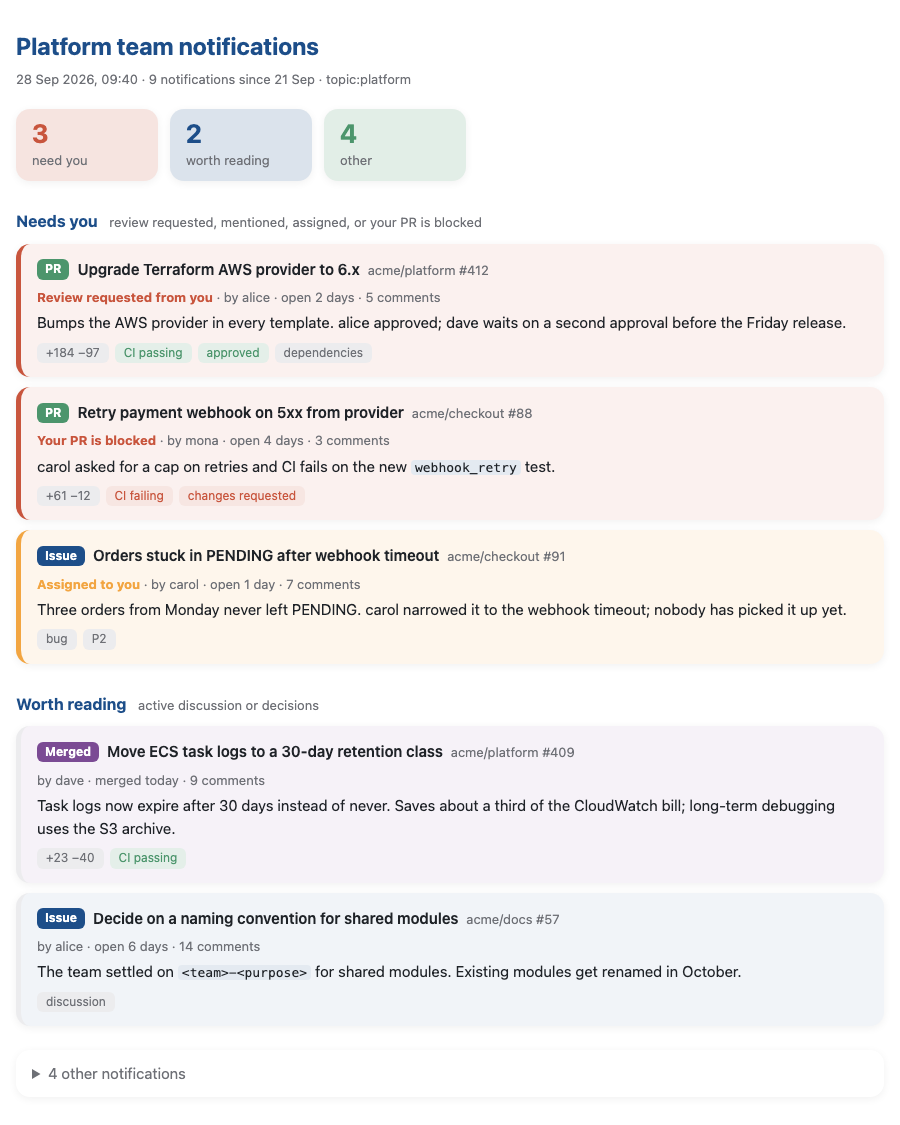
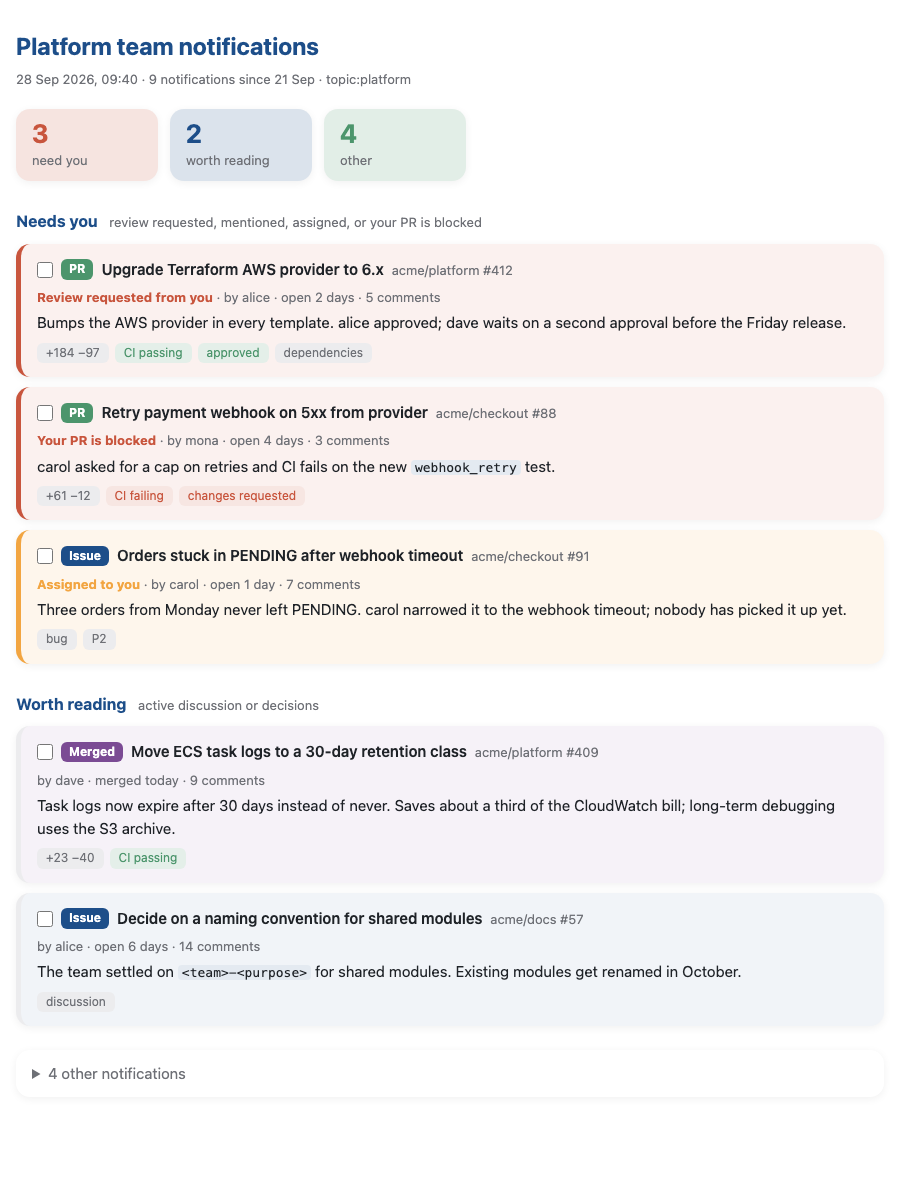
feat(my-skills): mark notifications as done from the summary page
Each thread on the page gets a checkbox. Ticking threads shows a
copyable `notification-summary.py done <ids>` command, which marks the
notifications as done on GitHub so the next run leaves them out.

diff --git a/plugins/my-skills/skills/notification-summary/summary.css b/plugins/my-skills/skills/notification-summary/summary.css
@@ -51,6 +51,19 @@ table { width: 100%; border-collapse: collapse; font-size: 13px; margin-top: 8px
 td { padding: 7px 6px; border-top: 1px solid var(--line); vertical-align: top; }
 th { padding: 7px 6px; text-align: left; font-weight: 600; color: var(--muted); white-space: nowrap; }
 
+input.done { width: 16px; height: 16px; margin: 0; accent-color: var(--a); cursor: pointer; }
+td:first-child { width: 16px; }
+main { padding-bottom: 72px; }
+#donebar {
+  position: fixed; left: 0; right: 0; bottom: 0; display: flex; gap: 10px; align-items: center; flex-wrap: wrap;
+  padding: 10px 16px calc(10px + env(safe-area-inset-bottom, 0px)); background: var(--card);
+  border-top: 1px solid var(--line); box-shadow: 0 -2px 8px rgb(0 0 0 / .08); font-size: 13px;
+}
+#donebar[hidden] { display: none; }
+#donecmd { flex: 1; min-width: 0; font: 12px ui-monospace, monospace; padding: 6px 8px; color: var(--fg); background: var(--bg); border: 1px solid var(--line); border-radius: 6px; }
+#donecopy { font: inherit; font-weight: 600; padding: 6px 14px; color: #fff; background: var(--a); border: 0; border-radius: 6px; cursor: pointer; }
+[data-theme=dark] #donecopy { color: var(--bg); }
+
 /* Light mode */
 [data-theme=light] .stat, [data-theme=light] .item, [data-theme=light] details.other { background: var(--card); border-radius: 14px; box-shadow: 0 2px 8px rgb(0 0 0 / .06); }
 [data-theme=light] .item { border-left: 5px solid var(--line); }

diff --git a/plugins/my-skills/skills/notification-summary/notification-summary.py b/plugins/my-skills/skills/notification-summary/notification-summary.py
@@ -19,9 +19,13 @@ does the deterministic parts:
     render NOTIFICATIONS_JSON SUMMARY_JSON [--out FILE]
         Merge Claude's summary (sections, priorities, one-line reasons and
         summaries) with the fetched facts and write an HTML page. Prints the
-        path.
+        path. The page builds a `done` command from the threads the user ticks.
 
-All GitHub calls are GET requests through the `gh` CLI.
+    done ID [ID ...]
+        Mark notification threads as done, so the next fetch leaves them out.
+        GitHub shows a done thread again when it gets new activity.
+
+All GitHub calls go through the `gh` CLI. Only `done` changes anything.
 """
 
 import argparse
@@ -29,6 +33,7 @@ import datetime as dt
 import html
 import json
 import re
+import shlex
 import subprocess
 import sys
 import tempfile
@@ -89,6 +94,13 @@ def gh_get(path: str):
     if res.returncode != 0:
         raise RuntimeError(f"GET {path} failed: {res.stderr.strip()}")
     return json.loads(res.stdout or "null")
+
+
+def gh_delete(path: str) -> None:
+    """DELETE one GitHub API path through the gh CLI."""
+    res = subprocess.run(["gh", "api", "--method", "DELETE", path], capture_output=True, text=True)
+    if res.returncode != 0:
+        raise RuntimeError(res.stderr.strip())
 
 
 def ci_state(check_runs: list) -> str:
@@ -293,13 +305,38 @@ def card(t: dict, s: dict, now: dt.datetime) -> str:
     tag_html = "".join(f'<span class="tag {c}">{e(x)}</span>' for x, c in tags(t))
     return (
         f'<article class="item p{pri} k-{k}">'
-        f'<div class="top"><span class="kind {k}">{label}</span><a href="{e(t["url"])}">{e(t["title"])}</a>'
+        f'<div class="top">{done_box(t)}<span class="kind {k}">{label}</span><a href="{e(t["url"])}">{e(t["title"])}</a>'
         f'<span class="repo">{e(t["repo"])} #{t["number"]}</span></div>'
         f'<p class="why">{lead}{e(status_line(t, now))}</p>'
         f'<p class="sum">{e(s.get("summary"))}</p>'
         + (f'<div class="tags">{tag_html}</div>' if tag_html else "")
         + "</article>"
     )
+
+
+def done_box(t: dict) -> str:
+    return f'<input type="checkbox" class="done" data-id="{e(t["id"])}" title="Mark as done" aria-label="Mark as done">'
+
+
+# Shows the `done` command for the ticked threads in the bottom panel.
+DONE_SCRIPT = """
+const boxes = [...document.querySelectorAll('input.done')];
+const bar = document.getElementById('donebar'), cmd = document.getElementById('donecmd');
+function update() {
+  const ids = [...new Set(boxes.filter(b => b.checked).map(b => b.dataset.id))];
+  bar.hidden = !ids.length;
+  cmd.value = bar.dataset.script + ' done ' + ids.join(' ');
+  document.getElementById('donecount').textContent = ids.length;
+}
+boxes.forEach(b => b.addEventListener('change', update));
+document.getElementById('donecopy').addEventListener('click', async e => {
+  cmd.select();
+  try { await navigator.clipboard.writeText(cmd.value); e.target.textContent = 'Copied'; }
+  catch { e.target.textContent = 'Press ⌘C'; }
+  setTimeout(() => e.target.textContent = 'Copy', 1500);
+});
+update();
+"""
 
 
 def describe_query(q: dict) -> str:
@@ -335,17 +372,25 @@ def render(data: dict, summary: dict, css: str) -> str:
             body += [card(t, s, now) for t, s in placed[key]]
     if other:
         rows = "".join(
-            f'<tr><td><span class="kind {kind(t)[0]}">{kind(t)[1]}</span></td>'
+            f'<tr><td>{done_box(t)}</td><td><span class="kind {kind(t)[0]}">{kind(t)[1]}</span></td>'
             f'<td><a href="{e(t["url"])}">{e(t["title"])}</a></td>'
             f'<td class="repo">{e(t["repo"])} #{t["number"]}</td><td class="repo">{e(t["author"])}</td>'
             f'<td class="repo">{ago(t["updated_at"], now)}</td></tr>'
             for t in other
         )
-        head = "<thead><tr><th></th><th>Title</th><th>Repo</th><th>Author</th><th>Updated ↓</th></tr></thead>"
+        head = "<thead><tr><th></th><th></th><th>Title</th><th>Repo</th><th>Author</th><th>Updated ↓</th></tr></thead>"
         body.append(f'<details class="other"><summary>{len(other)} other notifications</summary>'
                     f'<div class="wrap"><table>{head}<tbody>{rows}</tbody></table></div></details>')
     if not data["threads"]:
         body.append("<p>No notifications match this query.</p>")
+
+    if data["threads"]:
+        body.append(
+            f'<div id="donebar" hidden data-script="{e(shlex.quote(str(Path(__file__).resolve())))}">'
+            '<span><b id="donecount">0</b> to mark as done. Run in a terminal:</span>'
+            '<input id="donecmd" readonly aria-label="Command"><button id="donecopy" type="button">Copy</button></div>'
+            f"<script>{DONE_SCRIPT}</script>"
+        )
 
     local = now.astimezone()
     meta = (f"{local:%d %b %Y, %H:%M} · {len(data['threads'])} notifications since "
@@ -364,6 +409,26 @@ def render(data: dict, summary: dict, css: str) -> str:
     )
 
 
+# ---------- done ----------
+
+
+def mark_done(ids: list[str], delete=gh_delete) -> int:
+    """Mark each notification thread as done. Returns the exit code."""
+    bad = [i for i in ids if not i.isdigit()]
+    if bad:
+        print(f"thread IDs must be numbers: {' '.join(bad)}", file=sys.stderr)
+        return 2
+    failed = False
+    for i in ids:
+        try:
+            delete(f"notifications/threads/{i}")
+            print(f"done {i}")
+        except RuntimeError as err:
+            failed = True
+            print(f"failed {i}: {err}", file=sys.stderr)
+    return 1 if failed else 0
+
+
 # ---------- cli ----------
 
 
@@ -378,7 +443,12 @@ def main(argv=None) -> int:
     r.add_argument("notifications")
     r.add_argument("summary")
     r.add_argument("--out", help="HTML file (default: next to NOTIFICATIONS_JSON)")
+    d = sub.add_parser("done")
+    d.add_argument("ids", nargs="+", metavar="ID")
     a = p.parse_args(argv)
+
+    if a.cmd == "done":
+        return mark_done(a.ids)
 
     if a.cmd == "fetch":
         try:

diff --git a/plugins/my-skills/test_notification_summary.py b/plugins/my-skills/test_notification_summary.py
@@ -216,6 +216,38 @@ def test_cli_render(tmp_path):
     assert "--bg: #ffffff" in out and "data-theme=dark" in out
 
 
+class TestDone:
+    def test_render_has_a_checkbox_per_thread(self):
+        h = TestRender.html
+        for i in ("1", "2", "3"):
+            assert h.count(f'class="done" data-id="{i}"') == 1
+        assert 'id="donebar" hidden' in h and "notification-summary.py" in h
+
+    def test_marks_each_thread_done(self, capsys):
+        calls = []
+        assert ns.mark_done(["11", "12"], delete=calls.append) == 0
+        assert calls == ["notifications/threads/11", "notifications/threads/12"]
+        assert capsys.readouterr().out == "done 11\ndone 12\n"
+
+    def test_failure_continues_and_exits_1(self, capsys):
+        calls = []
+
+        def delete(path):
+            calls.append(path)
+            if path.endswith("/11"):
+                raise RuntimeError("HTTP 404")
+
+        assert ns.mark_done(["11", "12"], delete=delete) == 1
+        assert calls == ["notifications/threads/11", "notifications/threads/12"]
+        assert "failed 11: HTTP 404" in capsys.readouterr().err
+
+    def test_rejects_non_numeric_ids(self, capsys):
+        calls = []
+        assert ns.mark_done(["11", "../user"], delete=calls.append) == 2
+        assert calls == []
+        assert "../user" in capsys.readouterr().err
+
+
 def test_cli_rejects_bad_query(capsys):
     assert ns.main(["fetch", "label:bug"]) == 2
     assert "unsupported" in capsys.readouterr().err

diff --git a/plugins/my-skills/skills/notification-summary/SKILL.md b/plugins/my-skills/skills/notification-summary/SKILL.md
@@ -7,7 +7,7 @@ description: Summarize the most important GitHub issues and PRs from the user's 
 
 Builds an HTML page that sorts the user's GitHub notifications into "Needs you", "Worth reading" and a collapsed "Other" table, with a one- or two-sentence summary per thread.
 
-The script is `${CLAUDE_PLUGIN_ROOT}/skills/notification-summary/notification-summary.py`. It only makes GET requests through `gh`.
+The script is `${CLAUDE_PLUGIN_ROOT}/skills/notification-summary/notification-summary.py`. It calls GitHub through `gh`. Only the `done` command changes anything.
 
 ## 1. Pick the query
 
@@ -58,3 +58,13 @@ ${CLAUDE_PLUGIN_ROOT}/skills/notification-summary/notification-summary.py render
 ```
 
 Give the user the printed HTML path as an `open <path>` command. The page follows the OS light/dark setting; `?theme=light` or `?theme=dark` overrides it.
+
+## 5. Mark as done
+
+Each thread on the page has a checkbox. Ticking threads shows a command at the bottom of the page that the user runs in a terminal:
+
+```bash
+${CLAUDE_PLUGIN_ROOT}/skills/notification-summary/notification-summary.py done <thread id> [<thread id> ...]
+```
+
+It marks the notifications as done on GitHub, so the next fetch leaves them out until they get new activity. If the user names threads in chat instead ("mark the Renovate PRs as done"), look up their IDs in `notifications.json` and run the command yourself.

diff --git a/docs/my-skills.md b/docs/my-skills.md
@@ -30,7 +30,13 @@ The default query comes from `$NOTIFICATION_SUMMARY_QUERY`. This repo is public,
 
 ### GitHub access
 
-The script calls `gh api --method GET` directly instead of going through the `gh-read` plugin. It uses a fixed set of read-only endpoints, and depending on another plugin's install path would break when that plugin is not installed.
+The script calls `gh api` directly instead of going through the `gh-read` plugin. It uses a fixed set of endpoints, and depending on another plugin's install path would break when that plugin is not installed. `fetch` only reads.
+
+### Marking as done
+
+`done ID...` sends `DELETE /notifications/threads/{id}`, which is GitHub's "mark as done". GitHub then leaves the thread out of the notifications list until it gets new activity, so the next run of the skill does not show it again. The script keeps no state of its own for this.
+
+Each thread on the page has a checkbox. The page shows the `done` command for the ticked threads, with the script's absolute path, and the user copies it into a terminal. The page cannot call GitHub itself, because a local HTML file has no access to the user's token, and putting a token in the browser would expose it. `done` accepts only numeric IDs, so a mangled paste cannot reach another API path.
 
 ### Page design
 
